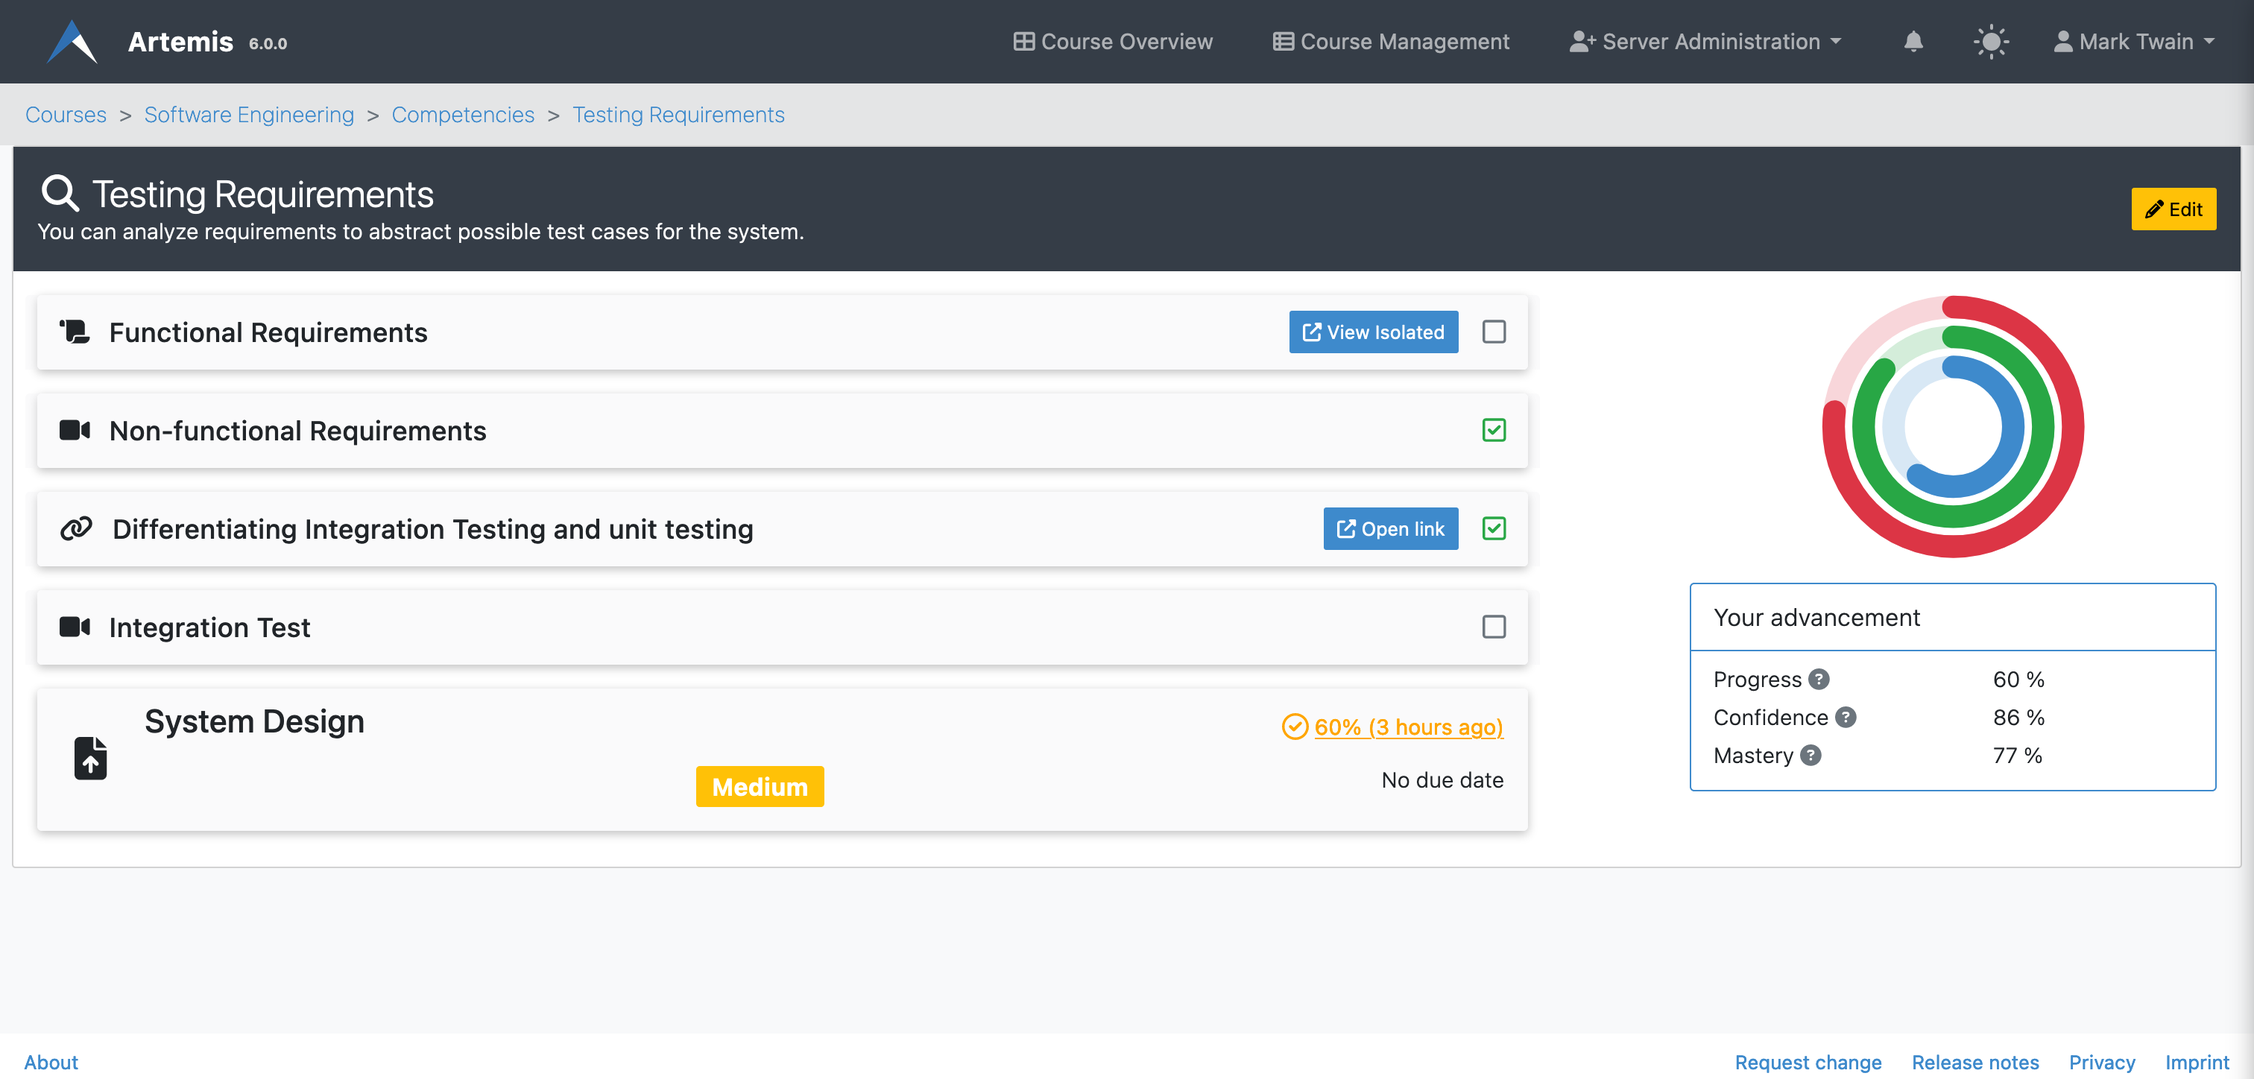
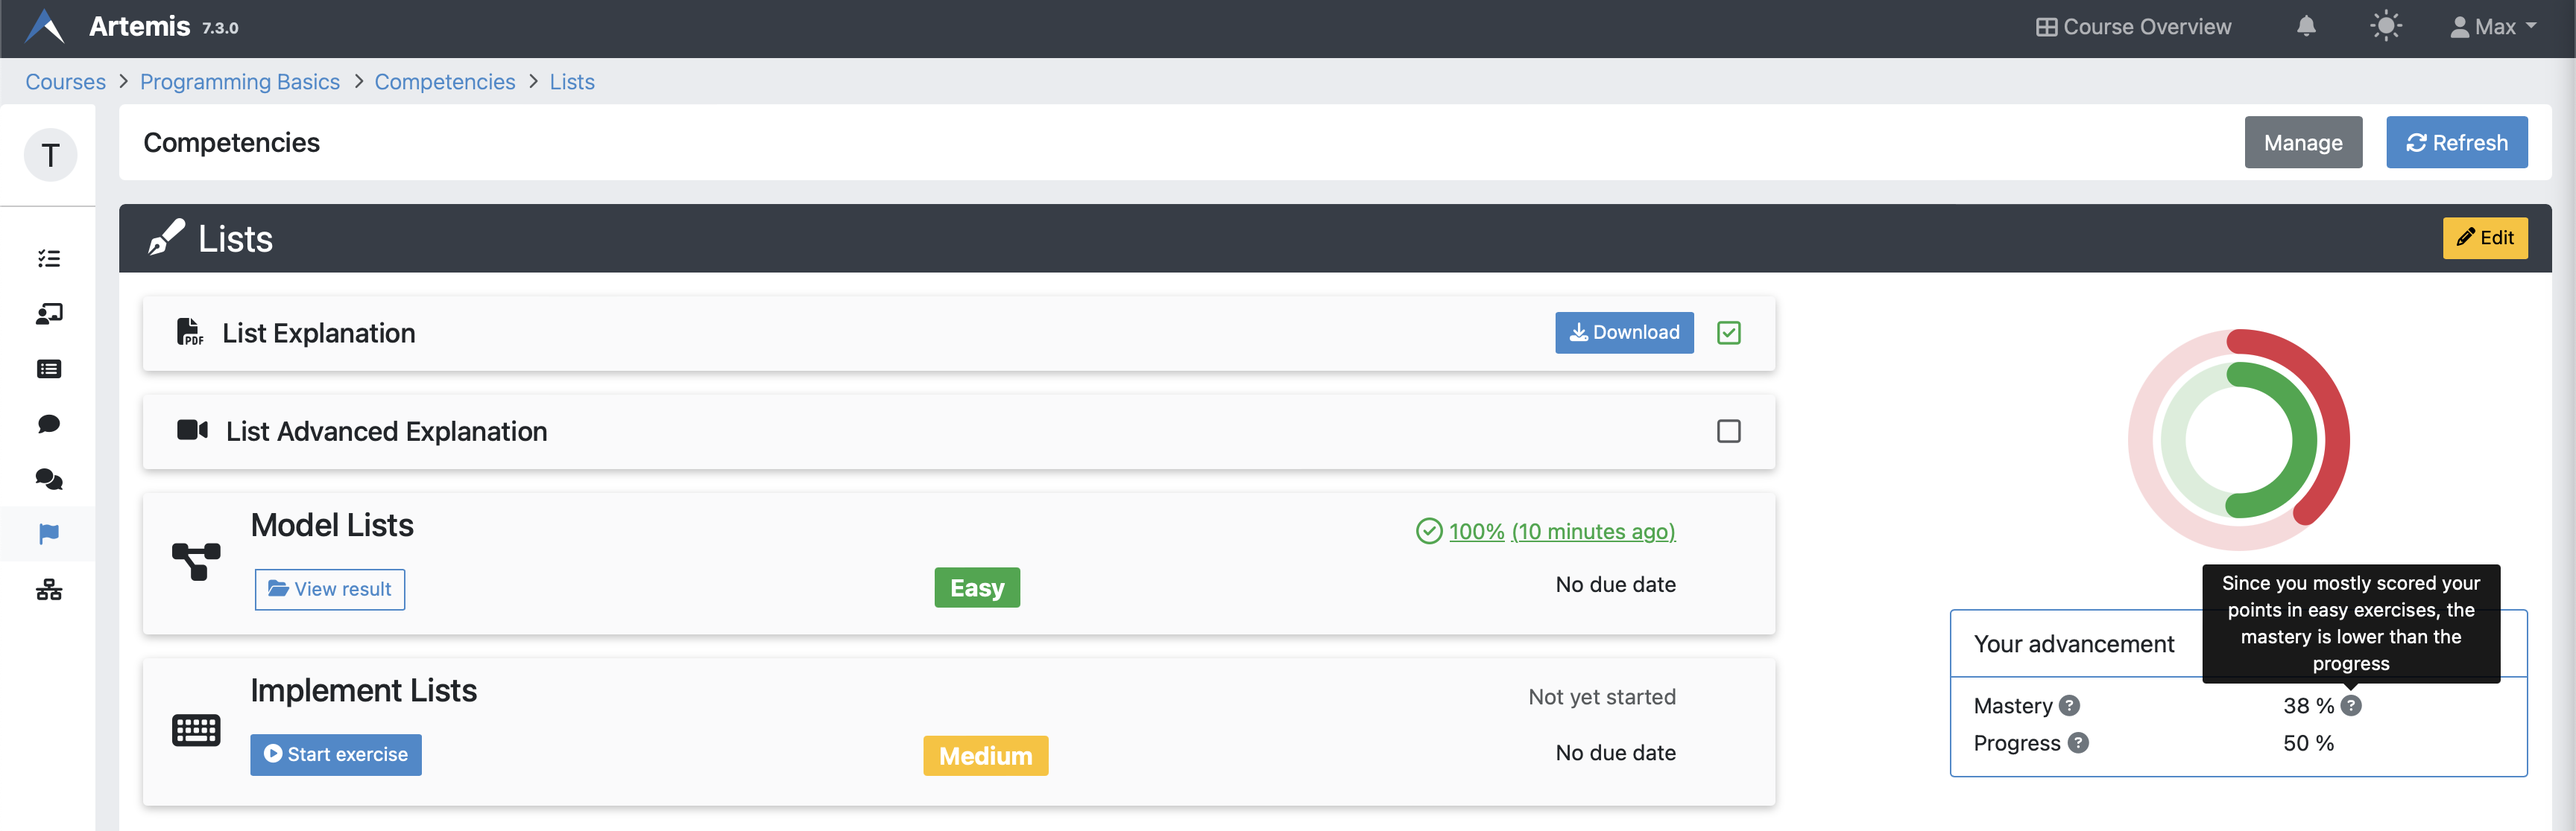
Adaptive learning: Update documentation to match new mastery calculation (#8853)

diff --git a/docs/user/adaptive-learning/adaptive-learning-student.rst b/docs/user/adaptive-learning/adaptive-learning-student.rst
@@ -11,7 +11,10 @@ Competencies
 ------------
 Competencies allow students to understand the learning goals of the course and measure their progress toward achieving them.
 
-In Artemis, a competency is considered mastered by a student when they complete all linked learning objects (progress equals 100%) and have an adequate confidence level (average score greater or equal to the mastery threshold set by the instructor).
+Artemis measures two metrics for each competency: **progress** and **mastery**.
+The progress starts at 0% and increases with every completed lecture unit and score achieved in exercises linked to the competency.
+The mastery is a weighted metric of the student's progress. It can be influenced by different factors, e.g. if the latest exercise scores are higher or lower than the student's average score in the competency.
+In Artemis, a competency is considered mastered by a student when the mastery is greater than or equal to the threshold set by the instructor.
 
 In case competencies are defined, students can get an overview of their individual progress and confidence on the competencies tab.
 The page lists all competencies with their title, description, and `taxonomy <https://en.wikipedia.org/wiki/Bloom%27s_taxonomy>`_.
@@ -21,10 +24,11 @@ Expanding the prerequisites section shows the student all competencies the instr
 |students-learning-goals-statistics|
 
 When clicking on a competency, a page opens and displays detailed statistics about the competency together with all linked lecture units and exercises.
-The tripartite rings show the student's advancement:
-The **blue ring describes the progress**, the percentage of completed lecture units and exercises.
-The **green ring visualizes the confidence**, the average score in all linked exercises in relation to the threshold required for mastering the competency (set by the instructor).
-The **red ring is a weighted metric of the student's progress and confidence**, which shows the overall advancement toward competency mastery.
+The two rings show the student's advancement:
+The **green ring describes the progress**, the percentage of completed lecture units and achieved scores exercises.
+The **red ring indicates the mastery**, which shows the overall advancement toward competency completion.
+
+If the mastery diverges from the progress, the student can see the main reason for this divergence as a tooltip next to the mastery value.
 
 |students-learning-goals-statistics-detail|
 

diff --git a/docs/user/adaptive-learning/adaptive-learning-instructor.rst b/docs/user/adaptive-learning/adaptive-learning-instructor.rst
@@ -21,6 +21,15 @@ By completing lectures and exercises, students gain mastery of a competency (see
 
 A prerequisite is a competency that students are expected to have already mastered before the course. Instructors select competencies from previous courses they taught as a prerequisite, or create new ones.
 
+Competencies measure two metrics for each student:
+The progress starts at 0% and increases with every completed lecture unit and with the achieved score in exercises linked to the competency. The growth is linear, e.g. completing half of the lecture units and scoring 50% in all linked exercises results in 50% progress.
+The mastery is a weighted metric and is influenced by the following heuristics:
+
+* The mastery increases when the latest scores of the student are higher than the average score of all linked exercises and vice versa.
+* The mastery increases when the student proportionally achieved more points in exercises marked as hard compared to the distribution of points in the competency and vice versa.
+* A similar measurement applies to easy exercises, where the mastery is decreased for achieving proportionally more points in easy exercises.
+* If the student quickly solves programming exercises with a score of at least 80% based on the amount of pushes, the mastery increases. There is no decrease in mastery for slower students!
+
 Manage Competencies
 ^^^^^^^^^^^^^^^^^^^^
 Instructors can manage competencies and prerequisites of a course in the *Competency Management* view. Here they can:
@@ -40,8 +49,8 @@ Create/Edit Competencies
 
 | An instructor can create or edit competencies using the following form.
   Besides a title and description, they can set a `taxonomy <https://en.wikipedia.org/wiki/Bloom%27s_taxonomy>`_.
-| The mastery threshold describes the minimum average score required for a student to reach 100% confidence in this competency.
-  The current average score of all linked exercises shown on this page can be used as a basis for defining a reasonable threshold value.
+| The mastery threshold describes the minimum mastery required for a student to consider the competency as mastered.
+  The current average mastery shown on this page can be used as a basis for defining a reasonable threshold value.
 | Instructors can link competencies to lecture units on this page by first choosing a lecture and then selecting desired lecture units.
 
 |instructor-competency-edit|
